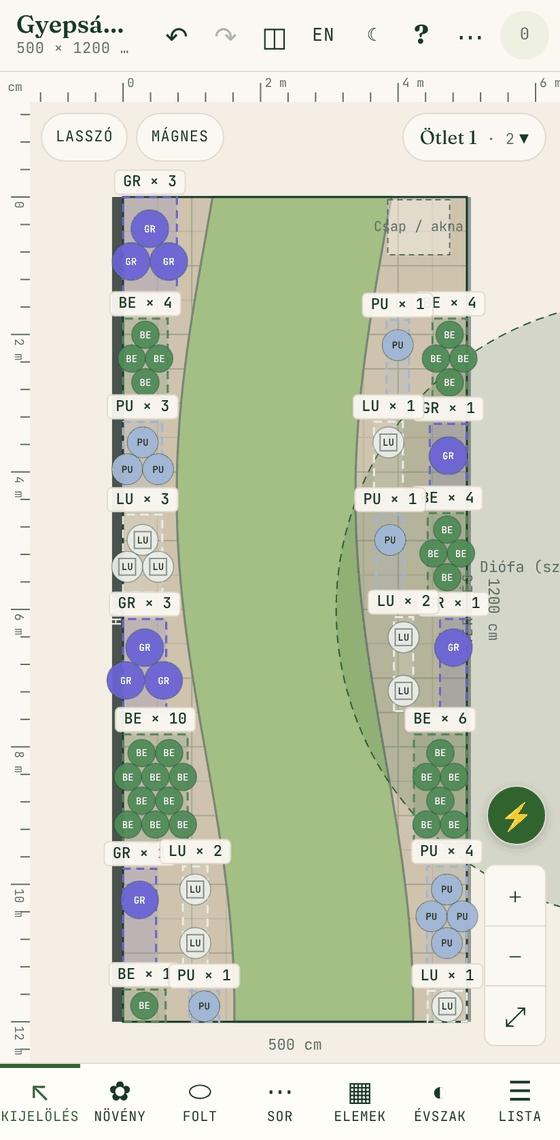
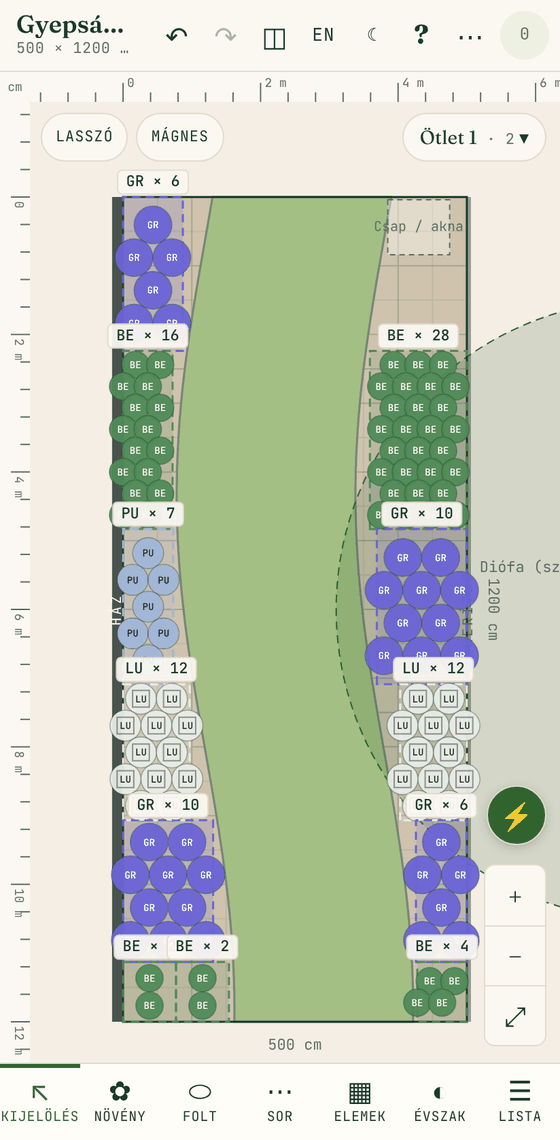
Idea generator: dense planting by default; sparse only with an extra distance
- Drifts tile their strip without gaps; a square grid (or staggered rows where no drift sits beside the rows) keeps half a spacing inside every edge, so neighbours keep their spacing without extra margins
- A strip only gets species that fit it; in narrow beds the species that fills the strip better is preferred
- Without an extra distance, a drift's spacing may tighten by up to 12 % to fit one more row or column
- Mixed planting uses a tighter grid and checks spacing against every placed plant; with fewer than two fitting species it widens the choice so neighbours still differ
- Bed coverage on the templates: drifts ~40 % → 66–95 %, mixed ~25 % → 56–87 %; with 20 cm extra distance ~30–40 %; regression test added

Claude-Session: https://claude.ai/code/session_015K5A3DUiTyajYS3QgPypRS

Changed region(s): [[0.1821, 0.1535, 0.425, 0.9211], [0.6071, 0.2456, 0.8804, 0.9211]]

diff --git a/src/engine/generator.ts b/src/engine/generator.ts
@@ -326,7 +326,7 @@ export function generateIdea(
   const cellBase = 150 + Math.round(r() * 80);
   const usedCodes = new Set<string>();
   /** Single plants of the mixed planting, to keep neighbours different. */
-  const singles: { q: Pt; code: string }[] = [];
+  const singles: { q: Pt; code: string; sp: number }[] = [];
   const add = (it: PlacedItem) => {
     usedCodes.add(it.plantId);
     items.push(it);
@@ -419,63 +419,91 @@ export function generateIdea(
       }
 
       // 4) Drifts in the rest: tallest at the back, lowest at the front.
+      // Drifts tile the strip without gaps; a square grid keeps half a spacing inside every edge,
+      // so plants of neighbouring drifts are a full spacing apart without any extra margin.
       const rest = w - depth;
-      if (!species.length || rest < 35) continue;
-      const bands = rest < 110 ? 1 : rest < 220 ? 2 : 3;
+      if (!species.length || rest < 30) continue;
+      const bands = Math.max(1, Math.min(3, species.length, Math.round(rest / 100)));
       const tiers: Plant[][] = Array.from({ length: bands }, () => []);
       species.forEach((p, i) => tiers[Math.min(bands - 1, Math.floor((i * bands) / species.length))].push(p));
       const bw = rest / bands;
+      const len = end - s;
+      /** Fits the band and the slice: at least one plant across, two along. */
+      const fits = (p: Plant) => p.spacingCm + extra <= bw + 1 && 2 * (p.spacingCm + extra) <= len + 1;
+      const backV = V(depth);
       for (let k = 0; k < bands; k++) {
         const tier = tiers[k].length ? tiers[k] : species;
-        const da = depth + k * bw + (k || depth ? gap / 2 : 0);
-        const db = depth + (k + 1) * bw - (k < bands - 1 ? gap / 2 : 0);
+        const da = depth + k * bw;
+        const db = depth + (k + 1) * bw;
         const [va, vb] = [Math.min(V(da), V(db)), Math.max(V(da), V(db))];
-        const plant0 = tier[(cell + k) % tier.length];
-        const rect = [U(s + (s > u0 ? gap / 2 : 0), va), U(end - (end < u1 ? gap / 2 : 0), vb)];
+        const rect = [U(s, va), U(end, vb)];
         const [x0, y0] = [Math.min(rect[0][0], rect[1][0]), Math.min(rect[0][1], rect[1][1])];
         const [x1, y1] = [Math.max(rect[0][0], rect[1][0]), Math.max(rect[0][1], rect[1][1])];
         const outer = clipRect(pts, x0, y0, x1, y1);
         if (outer.length < 3) continue;
-        let plant = plant0;
-        // Walnut zone: swap in a juglone-tolerant species of a similar height.
-        if (plant.juglone !== 'tolerant' && walnuts.length && outer.some(inWalnut)) {
-          const alt = [...tolerantDrift].sort((x, y) => Math.abs(x.maxHeightCm - plant.maxHeightCm) - Math.abs(y.maxHeightCm - plant.maxHeightCm))[0];
-          if (!alt) continue;
-          plant = alt;
-        }
-        // Inset the inner edges so edge plants of neighbouring drifts keep the spacing rule happy.
-        const i = Math.ceil(plant.spacingCm * 0.32);
-        // At the area's edge keep the mature spread inside (ground covers spread wider than their spacing).
+        const walnutHere = walnuts.length > 0 && outer.some(inWalnut);
+        const ok = (p: Plant) => fits(p) && (!walnutHere || p.juglone === 'tolerant');
+        // The tier's own species if it fits; else the closest in height that does.
+        const own = tier.filter(ok);
+        const byHeight = (h: number) => [...species, ...tolerantDrift].filter(ok).sort((x, y) => Math.abs(x.maxHeightCm - h) - Math.abs(y.maxHeightCm - h));
+        const cands = own.length ? [...own.slice((cell + k) % own.length), ...own.slice(0, (cell + k) % own.length)] : byHeight(tier[0].maxHeightCm).slice(0, 3);
+        if (!cands.length) continue;
+        // Rows run along x; a staggered layout is safe where no other drift sits beside the rows (one band along a long-in-y strip).
+        const pattern: 'grid' | 'staggered' = alongY && bands === 1 ? 'staggered' : 'grid';
+        /** How much of its strip a species would fill here (narrow beds suit small spacings). */
+        const fill = (p: Plant) => {
+          const sp = p.spacingCm + extra;
+          const n = fillPolygon(clipRect(pts, x0, y0, x1, y1), sp, pattern).length;
+          return (n * sp * sp) / Math.max(1, (x1 - x0) * (y1 - y0));
+        };
+        const best = Math.max(...cands.map(fill));
+        // Keep the rhythm (first candidate) unless it would leave the strip clearly emptier than another one.
+        const plant = cands.find((p) => fill(p) >= best * 0.75) ?? cands[0];
+        // At the area's edge keep the mature spread inside (ground covers spread wider than their spacing);
+        // next to the shrub / hedge strip leave a quarter spacing.
         const edgeIns = Math.min(Math.ceil(Math.max(0, plant.spreadCm - plant.spacingCm) / 2), 40);
-        const ins = (v: number, edge: number) => (Math.abs(v - edge) < 1 ? edgeIns : i);
+        const back = k === 0 && depth > 0 ? Math.ceil(plant.spacingCm * 0.25) : 0;
+        const ins = (v: number, edge: number) => (Math.abs(v - edge) < 1 ? edgeIns : Math.abs(v - backV) < 1 ? back : 0);
         const poly = clipRect(pts, x0 + ins(x0, bb.minX), y0 + ins(y0, bb.minY), x1 - ins(x1, bb.maxX), y1 - ins(y1, bb.maxY));
         if (poly.length < 3) continue;
         if (opts.mixed) {
-          // Mixed planting: single plants on one grid, each species different from its neighbours.
+          // Mixed planting: single plants on one tight grid; each spot gets a species that is not next door
+          // and keeps its spacing to everything already planted.
           const near = [...tier, ...(tiers[k - 1] ?? []), ...(tiers[k + 1] ?? [])];
-          const pick = [...new Set(tier.length >= 2 ? tier : near.length >= 2 ? near : species)].filter((p) => p.juglone === 'tolerant' || !walnuts.length || !outer.some(inWalnut));
+          let pick = [...new Set(tier.length >= 2 ? tier : near)].filter(ok);
+          // Fewer than two fit this strip: widen to every species that fits, so neighbours can still differ.
+          if (pick.length < 2) pick = [...new Set([...pick, ...species.filter(ok)])];
           if (!pick.length) continue;
-          const sp = Math.max(...pick.map((p) => p.spacingCm)) + extra;
-          const iM = Math.ceil(sp * 0.32);
-          const edgeM = Math.min(Math.ceil(Math.max(0, Math.max(...pick.map((p) => p.spreadCm)) - sp) / 2), 40);
-          const insM = (v: number, edge: number) => (Math.abs(v - edge) < 1 ? edgeM : iM);
-          const polyM = clipRect(pts, x0 + insM(x0, bb.minX), y0 + insM(y0, bb.minY), x1 - insM(x1, bb.maxX), y1 - insM(y1, bb.maxY));
-          if (polyM.length < 3) continue;
-          for (const q of fillPolygon(polyM, sp, 'staggered')) {
+          const grid = (0.95 * pick.reduce((a, p) => a + p.spacingCm, 0)) / pick.length + extra;
+          for (const q of fillPolygon(poly, grid, 'staggered')) {
             if (!inside(q)) continue;
-            const taken = new Set(singles.filter((o) => dist(o.q, q) < sp * 1.6).map((o) => o.code));
-            const free = pick.filter((p) => !taken.has(p.code));
-            const pl = (free.length ? free : pick)[Math.floor(r() * (free.length ? free.length : pick.length))];
-            if (!free.length && pick.length > 1) continue; // every candidate already next door: leave a gap rather than pair them
-            singles.push({ q, code: pl.code });
+            const around = singles.filter((o) => dist(o.q, q) < 2.2 * (grid + extra));
+            const free = pick.filter(
+              (p) =>
+                around.every((o) => dist(o.q, q) >= 0.88 * ((p.spacingCm + o.sp) / 2 + extra)) &&
+                (pick.length < 2 || !around.some((o) => o.code === p.code && dist(o.q, q) < 1.6 * ((p.spacingCm + o.sp) / 2 + extra))),
+            );
+            if (!free.length) continue;
+            const pl = free[Math.floor(r() * free.length)];
+            singles.push({ q, code: pl.code, sp: pl.spacingCm });
             add({ kind: 'plant', id: uid(), plantId: pl.code, x: Math.round(q[0]), y: Math.round(q[1]), status: 'needed' });
           }
           continue;
         }
-        const dsp = plant.spacingCm + extra;
-        const ps = fillPolygon(poly, dsp, 'staggered');
+        // Without extra distance, the spacing may tighten by up to 12 % when that fits one more row or column.
+        let dsp = plant.spacingCm + extra;
+        let ps = fillPolygon(poly, dsp, pattern);
+        if (!extra) {
+          const pb = bbox(poly);
+          const [pw, ph] = [pb.maxX - pb.minX, pb.maxY - pb.minY];
+          for (const c of [pw / (Math.floor(pw / dsp) + 1), ph / (Math.floor(ph / dsp) + 1)]) {
+            if (c < dsp * 0.88) continue;
+            const alt = fillPolygon(poly, Math.ceil(c), pattern);
+            if (alt.length > ps.length) [dsp, ps] = [Math.ceil(c), alt];
+          }
+        }
         if (!ps.length || ps.some((q) => !inside(q))) continue;
-        add({ kind: 'drift', id: uid(), plantId: plant.code, polygon: poly, pattern: 'staggered', spacingCm: dsp, count: ps.length, status: 'needed' });
+        add({ kind: 'drift', id: uid(), plantId: plant.code, polygon: poly, pattern, spacingCm: dsp, count: ps.length, status: 'needed' });
       }
     }
     s = end;

diff --git a/tests/unit/generator.test.ts b/tests/unit/generator.test.ts
@@ -2,6 +2,8 @@ import { describe, expect, it } from 'vitest';
 import { SEED_PLANTS } from '../../src/data/plants.seed';
 import { candidates, clipRect, colourFamilies, generateIdea, plantKinds, type PlantKind } from '../../src/engine/generator';
 import { evaluate } from '../../src/engine/rules';
+import { itemPositions } from '../../src/engine/fill';
+import { bedAreaM2 } from '../../src/engine/schedule';
 import { newProject } from '../../src/store/projectStore';
 
 const proj = newProject(['house-strip', 'lawn-garden']);
@@ -135,5 +137,23 @@ describe('idea generator: plant types', () => {
     expect(n(sparse)).toBeLessThan(n(base) * 0.8);
     for (const it of sparse.items) if (it.kind === 'drift') expect(it.spacingCm).toBe(db.find((p) => p.code === it.plantId)!.spacingCm + 20);
     expect(sparse.notes.join(' ')).toContain('20 cm-rel nagyobb');
+  });
+
+  it('fills the bed densely by default; only an extra distance makes it sparse', () => {
+    const sp = new Map(db.map((p) => [p.code, p.spacingCm]));
+    /** Share of the bed covered, counting each plant's own spacing cell (hexagonal). */
+    const cover = (area: typeof strip, opts: Parameters<typeof generateIdea>[3]) => {
+      const idea = generateIdea(area, db, proj.settings, opts);
+      const bad = evaluate(area, idea.items, db, proj.settings).filter((w) => w.rule === 'spacing' || w.rule === 'outside');
+      expect(bad).toEqual([]);
+      const cells = idea.items.reduce((a, it) => a + itemPositions(it).length * ((sp.get(it.plantId)! ** 2 * Math.sqrt(3)) / 2), 0);
+      return cells / (bedAreaM2(area) * 1e4);
+    };
+    for (const area of [strip, lawn])
+      for (let seed = 1; seed <= 3; seed++) {
+        expect(cover(area, { seed })).toBeGreaterThan(0.6);
+        expect(cover(area, { seed, mixed: true })).toBeGreaterThan(0.5);
+        expect(cover(area, { seed, extraGapCm: 20 })).toBeLessThan(cover(area, { seed }) * 0.6);
+      }
   });
 });
